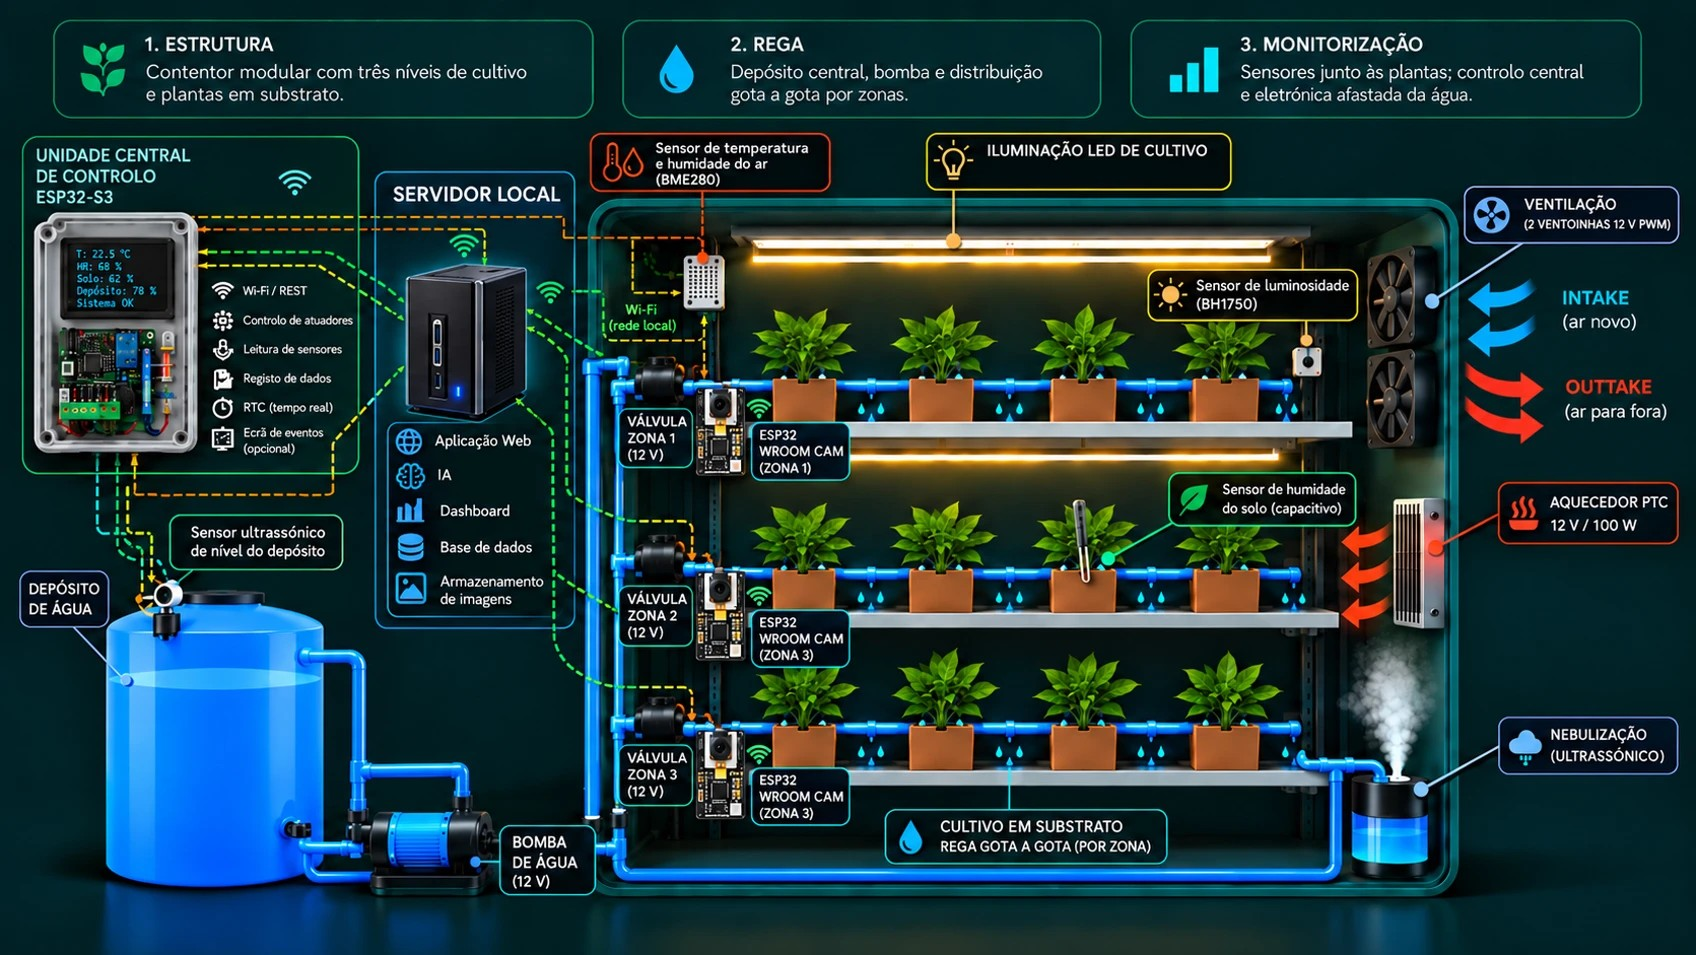
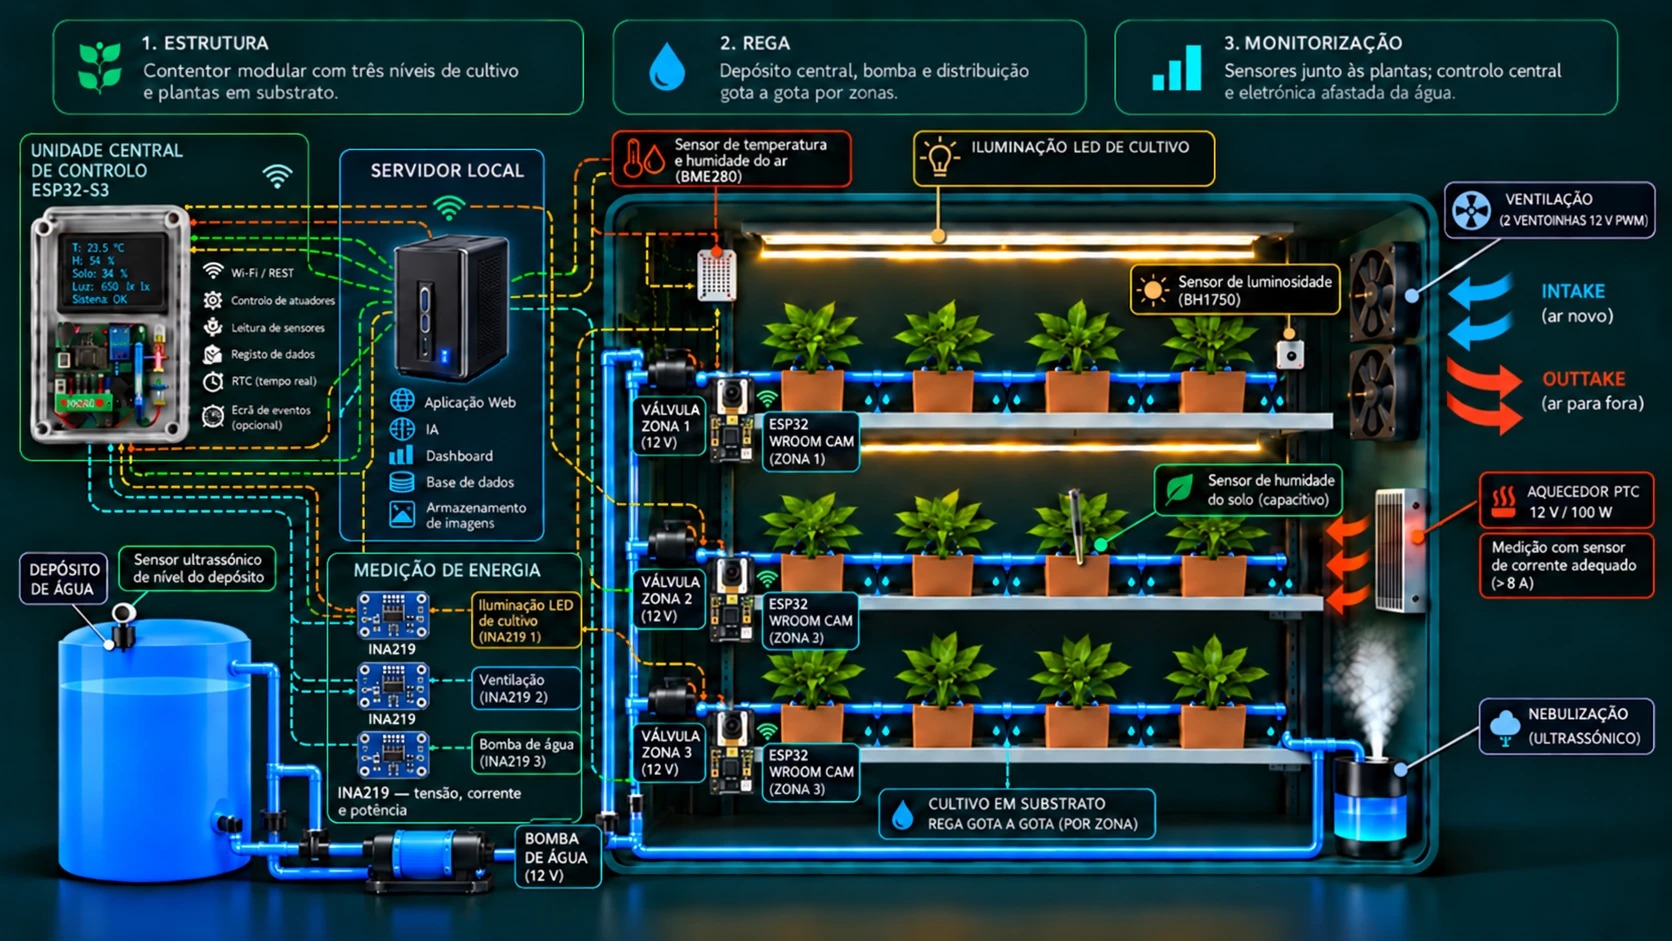
Atualizar esboço com medição de energia e responsáveis do plano de trabalho

diff --git a/Documentacao/1aEntrega/README.md b/Documentacao/1aEntrega/README.md
@@ -295,9 +295,9 @@ O planeamento é preliminar e será atualizado à medida que as tarefas forem co
 | Até 27/10/2026 — M1 | Consolidar o problema, o objetivo e o âmbito do protótipo; fechar a arquitetura conceptual, a lista preliminar de materiais, o esboço físico, os guiões de utilização, os riscos, o relatório e a apresentação. | Todos; consolidação do relatório e da apresentação pelo grupo. |
 | Até 13/11/2026 — ES | Formalizar os requisitos funcionais e não funcionais, definir critérios de aceitação verificáveis e relacionar cada requisito com uma funcionalidade e um teste. | Vítor Freitas e Fernando Simões, com revisão do grupo. |
 | Até 14/11/2026 — IoT | Confirmar sensores e atuadores, interfaces elétricas, alimentação e proteções; rever a comunicação entre nós e o circuito de rega, incluindo as condições de bloqueio por nível baixo. | Todos; distribuição detalhada das tarefas técnicas a confirmar em reunião. |
-| Novembro 2026 | Montar o circuito mínimo e testar individualmente os sensores de humidade do substrato, temperatura/humidade do ar e nível do depósito; validar o acionamento controlado da bomba e das válvulas. | Responsáveis a definir pelo grupo; registar resultados e problemas encontrados. |
+| Novembro 2026 | Montar o circuito mínimo e testar individualmente os sensores de humidade do substrato, temperatura/humidade do ar e nível do depósito; validar o acionamento controlado da bomba e das válvulas. | Fernando Simões; revisão por Cláudio Fonseca e Vítor Hugo Freitas. Registar resultados e problemas encontrados. |
 | Até 30/11/2026 — M2 | Demonstrar pelo menos uma funcionalidade integrada de hardware e software, documentar a arquitetura efetivamente implementada e apresentar evidências de teste. | Todos; preparação conjunta da demonstração. |
-| Dezembro 2026 | Implementar a API REST, estruturar as tabelas MySQL, disponibilizar um dashboard inicial e iniciar a recolha sistemática de leituras, estados dos atuadores e alertas. | Responsáveis técnicos a definir após a M1; revisão de integração pelo grupo. |
+| Dezembro 2026 | Implementar a API REST, estruturar as tabelas MySQL, disponibilizar um dashboard inicial e iniciar a recolha sistemática de leituras, estados dos atuadores e alertas. | Vítor Hugo Freitas e Cláudio Fonseca; revisão de integração pelo grupo. |
 | Dezembro 2026–janeiro 2027 | Preparar e validar os dados históricos; estabelecer uma previsão de referência do consumo energético, iniciar a deteção de anomalias na rega e integrar dados meteorológicos da Open-Meteo quando aplicável. | Todos, com validação da componente de Inteligência Artificial; modelos sujeitos à disponibilidade de dados. |
 | Até 15/01/2027 — testes ES | Executar o plano de testes, verificar os requisitos, recolher métricas, registar falhas e documentar os resultados e as correções realizadas. | Responsáveis a confirmar; revisão dos resultados pelo grupo. |
 | Janeiro–fevereiro 2027 | Integrar os módulos, corrigir problemas, rever a segurança e a estabilidade, atualizar a documentação e preparar relatório final, vídeo, poster e apresentação. | Todos; cada responsável entrega documentação da sua componente. |
